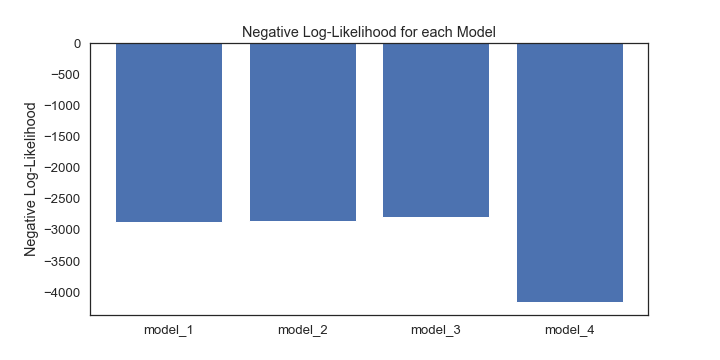
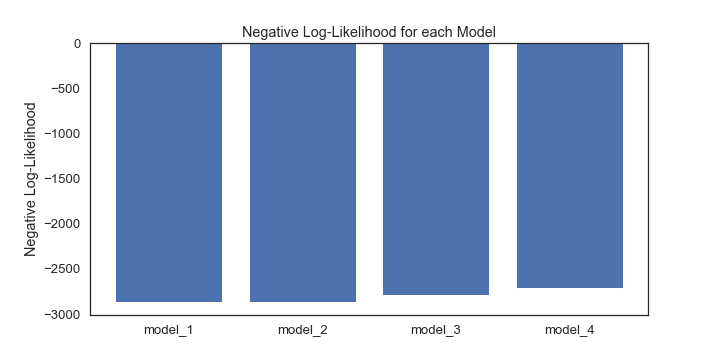
wip model 4 fix.

diff --git a/hw-4/instrumental-interactions/model_template.py b/hw-4/instrumental-interactions/model_template.py
@@ -204,7 +204,7 @@ def model_negative_log_likelihood(data, q_update, q_init=empty_q, q_bias=None):
         if q_bias is None:
             prob = softmax(q[state])
         else:
-            q_biased = q_bias(q, state, action, reward) 
+            q_biased = q_bias(q, state) 
             prob = softmax(q_biased)
        
         # Compute the log-likelihood
@@ -213,6 +213,10 @@ def model_negative_log_likelihood(data, q_update, q_init=empty_q, q_bias=None):
         q[state, action] = q_update(q, state, action, reward)
         
     return -log_likelihood
+
+# num-states: 4 (Go+, Go-, NoGo+, NoGo-)
+# num-actions: 2 (1, 0)
+# q[state] - 2 actions
 
 #%%
 """
@@ -302,7 +306,6 @@ Model Number: 3
 Parameters: \epsilon_{rew}, \epsilon_{pun}, \epsilon_{omm}, \beta
 Expected BIC: 4665
 """
-# learning_rate_rew', 'learning_rate_pun', 'learning_rate_omit', 'beta'
 def model_3(data, learning_rate_rew, learning_rate_pun, learning_rate_omm, beta):
     """
     """
@@ -347,36 +350,30 @@ Model Number: 4
 Parameters: \epsilon, \beta, bias_{app}, bias_{wth}
 Expected BIC: 4771
 """
-def create_bias_matrix(num_states, num_actions, bias_app, bias_wth):
-    bias_matrix = np.zeros((num_states, num_actions))
-    # Apply bias to Go actions in appropriate states
-    # State 0 is Go+, State 1 is Go-
-    bias_matrix[0, 1] = bias_app  # Bias for Go+ (approach)
-    bias_matrix[1, 1] = bias_wth  # Bias for Go- (withdrawal)
-    
-    # No biases for NoGo actions
-    # State 2 (NoGo+) and State 3 (NoGo-) have all biases as 0
-    return bias_matrix
-
+# Each of the 4 cue states Go+, Go-, NoGo+, NoGo-
+# Can be optionally associated with a bias
+# b(a_t) takes value 
+#   b_{app} for approach go actions     Go+ - 
+#   b_{wth} for withdrawal go actions   Go- 
+#   0 for NoGo+
+#   0 for NoGo-
+# 4 states : Go+, Go-, NoGo+, NoGo-
+# 2 actions: 1, 0
+# 4 biases: Go+: bias_{app}, Go-, bias_{wth}, 0, 0
+# Determine the appropriate bias based on state (context) and action
 def model_4(data, learning_rate, beta, bias_app, bias_wth):
     """
     Model-4 includes biases.
     """
-    def q_bias(q, state, action, reward):   
-        # Each of the 4 cue states Go+, Go-, NoGo+, NoGo-
-        # Can be optionally associated with a bias
-        # b(a_t) takes value 
-        #   b_{app} for approach go actions     Go+ - 
-        #   b_{wth} for withdrawal go actions   Go- 
-        #   0 for NoGo+
-        #   0 for NoGo-
-        # 4 states : Go+, Go-, NoGo+, NoGo-
-        # 2 actions: 1, 0
-        # 4 biases: Go+: bias_{app}, Go-, bias_{wth}, 0, 0
-        bias = np.array([bias_app, bias_wth, 0, 0])
-        
-        return q[:, action] + bias
-    
+    def q_bias(q, state):   
+        bias_matrix = np.array([
+            [0.0, bias_app],  # Go+ (state 0): NoGo = 0, Go = bias_app
+            [0.0, bias_wth],  # Go- (state 1): NoGo = 0, Go = bias_wth
+            [0.0, 0.0],       # NoGo+ (state 2): No bias for either action
+            [0.0, 0.0]        # NoGo- (state 3): No bias for either action
+        ])
+        return q[state] + bias_matrix[state] 
+       
     def update_rule(q, state, action, reward):
         """
         q: np.ndarray
@@ -388,18 +385,11 @@ def model_4(data, learning_rate, beta, bias_app, bias_wth):
         reward: int
             The reward
         """
-        # state == 0 and state == 1 are  Go+ and Go- respectively 
-        # state == 2 and state == 3 are NoGo+ and NoGo- respectively
-        # biases are only applied to Go+ and Go- states
-        #  bias_{app} applied to Go+ and bias_{wth} applied to Go-
-        q_value = q[state, action]
-        if state == 0:
-            q_value += bias_app 
+        # Update Q-value with learning rate and prediction error
         prediction_error = (beta * reward) - q[state, action]
-        
-        return False #q[state, action] + learning_rate * prediction_error + bias_app - bias_wth
+        return q[state, action] + (learning_rate * prediction_error)
     
-    return model_negative_log_likelihood(data, update_rule)
+    return model_negative_log_likelihood(data, update_rule, q_bias=q_bias)
 """
 Model-5: Assumes that:
     * \epsilon - learning rate
